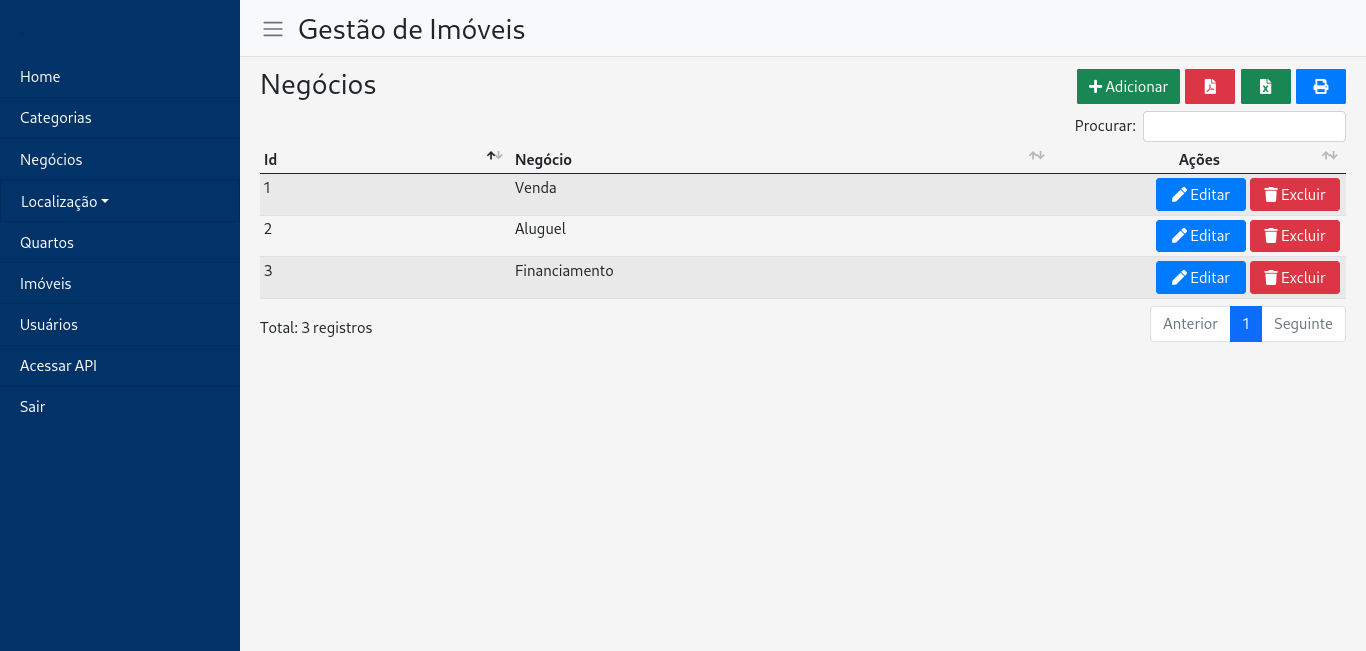
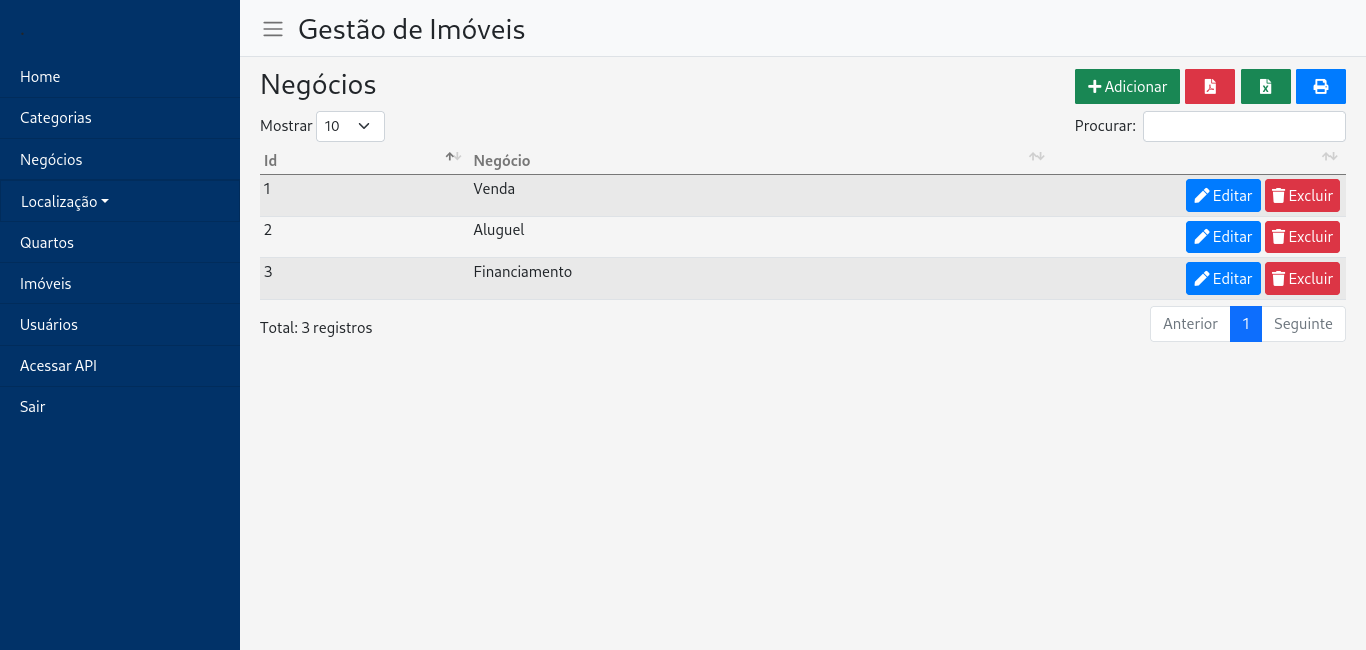
Atualização de arquivos

diff --git a/src/main/resources/static/js/imovel.js b/src/main/resources/static/js/imovel.js
@@ -1,8 +1,8 @@
 $(document).ready(function () {
     var dataTable = $('#data-table').DataTable({
-        responsive:true,
-        ordering:false,
-        dom: 'Bfrtip',
+        responsive: true,
+        ordering: false,
+        dom: 'Blfrtip',
         buttons:[
             {
                 text:      '<i class="fas fa-plus"></i> Adicionar',
@@ -54,8 +54,8 @@ $(document).ready(function () {
         },
         initComplete: function() {
             var api = this.api();
-            $("#data-table thead .filters th").each( function ( colIdx ) {
-                var cell = $('.filters th').eq($(api.column(colIdx).header()).index());
+            $("#data-table thead .filters .filter").each( function ( colIdx ) {
+                var cell = $('.filters .filter').eq($(api.column(colIdx).header()).index());
                 var title = $(cell).text();
                 var select = null;
                 if(title == 'Status' || title == 'Negócio' || title == 'Categoria' || title == 'Quarto') {
@@ -77,7 +77,7 @@ $(document).ready(function () {
                     } );
                 } else {
                     $(cell).html( '<input type="text" placeholder="'+title+'" />' );
-                    $('input', $('.filters th').eq($(api.column(colIdx).header()).index()) )
+                    $('input', $('.filters .filter').eq($(api.column(colIdx).header()).index()) )
                     .off('keyup change')
                     .on('keyup change', function (e) {
                         e.stopPropagation();
@@ -118,12 +118,12 @@ $(document).ready(function () {
             },
             {
                 "data": null, "render": function ( data ) {
-                    return '<a class="btn btn-success" href="/imovel/visualizar/'+data.id+'">'+
+                    return '<div class="actions"><a class="btn btn-success" href="/imovel/visualizar/'+data.id+'">'+
                     '<i class="fas fa-eye"></i> Ver</a>'+
                     '<a class="btn btn-primary" href="/imovel/editar/'+data.id+'">'+
                     '<i class="fas fa-pen"></i> Editar</a><a class="btn btn-danger" '+
                     'onclick="return confirm(\'Tem certeza que deseja excluir esse registro?\');" '+
-                    'href="/imovel/excluir/'+data.id+'"><i class="fas fa-trash"></i> Excluir</a>'
+                    'href="/imovel/excluir/'+data.id+'"><i class="fas fa-trash"></i> Excluir</a></div>'
                 }
             }
         ],

diff --git a/src/main/resources/static/css/style.css b/src/main/resources/static/css/style.css
@@ -140,8 +140,8 @@ body {
 
 #data-table {
     width: 100% !important;
-    margin-top: 5px !important;
-    margin-bottom: 2px !important;
+    margin-top: 6px !important;
+    margin-bottom: 4px !important;
 }
 
 #data-table .btn-primary, #data-table .btn-success, #data-table .btn-danger {
@@ -155,13 +155,13 @@ body {
     padding: 2px 4px !important;
 }
 
-#data-table th:last-child {
-    min-width: 27% !important;
-    text-align: center !important;
+#data-table thead th {
+    color: #777 !important;
 }
 
-#data-table tr td:last-child {
-    text-align: right !important;
+#data-table thead th:last-child {
+    min-width: 27% !important;
+    text-align: center !important;
 }
 
 #data-table thead .col-1 input {
@@ -172,14 +172,16 @@ body {
     max-width: 150px !important;
 }
 
+#data-table tr td .actions {
+    text-align: right !important;
+}
+
 #data-table_info {
     float: left !important;
 }
 
 #data-table_length {
-    display: none !important;
     float: left !important;
-    margin-top: 10px !important;
 }
 
 #data-table_paginate {
@@ -244,6 +246,7 @@ body {
     margin-top: 2px !important;
     margin-bottom: 2px !important;
     font-size: 15px !important;
+    padding: .375rem .80rem !important;
 }
 
 .alert-danger, .alert-success {

diff --git a/src/main/resources/static/js/categoria.js b/src/main/resources/static/js/categoria.js
@@ -1,7 +1,7 @@
 $(document).ready(function () {
     dataTable = $('#data-table').DataTable({
-        responsive:true,
-        dom: 'Bfrtip',
+        responsive: true,
+        dom: 'Blfrtip',
         buttons:[
             {
                 text:      '<i class="fas fa-plus"></i> Adicionar',
@@ -56,10 +56,10 @@ $(document).ready(function () {
             { "data": "nome" },
             {
                 "data": null, "render": function (data) {
-                    return '<a class="btn btn-primary" href="/classificador/categoria/editar/'+data.id+'">'+
+                    return '<div class="actions"><a class="btn btn-primary" href="/classificador/categoria/editar/'+data.id+'">'+
                     '<i class="fas fa-pen"></i> Editar</a><a class="btn btn-danger" '+
                     'onclick="return confirm(\'Tem certeza que deseja excluir esse registro?\');" '+
-                    'href="/classificador/categoria/excluir/'+data.id+'"><i class="fas fa-trash"></i> Excluir</a>'
+                    'href="/classificador/categoria/excluir/'+data.id+'"><i class="fas fa-trash"></i> Excluir</a></div>'
                 }
             }
         ],

diff --git a/src/main/resources/static/js/municipio.js b/src/main/resources/static/js/municipio.js
@@ -1,7 +1,7 @@
 $(document).ready(function () {
     dataTable = $('#data-table').DataTable({
-        responsive:true,
-        dom: 'Bfrtip',
+        responsive: true,
+        dom: 'Blfrtip',
         buttons:[
             {
                 text:      '<i class="fas fa-plus"></i> Adicionar',
@@ -57,10 +57,10 @@ $(document).ready(function () {
             { "data": "estado.nome" },
             {
                 "data": null, "render": function (data) {
-                    return '<a class="btn btn-primary" href="/localidade/municipio/editar/'+data.id+'">'+
+                    return '<div class="actions"><a class="btn btn-primary" href="/localidade/municipio/editar/'+data.id+'">'+
                     '<i class="fas fa-pen"></i> Editar</a><a class="btn btn-danger" '+
                     'onclick="return confirm(\'Tem certeza que deseja excluir esse registro?\');" '+
-                    'href="/localidade/municipio/excluir/'+data.id+'"><i class="fas fa-trash"></i> Excluir</a>'
+                    'href="/localidade/municipio/excluir/'+data.id+'"><i class="fas fa-trash"></i> Excluir</a></div>'
                 }
             }
         ],

diff --git a/src/main/resources/static/js/bairro.js b/src/main/resources/static/js/bairro.js
@@ -1,7 +1,7 @@
 $(document).ready(function () {
     dataTable = $('#data-table').DataTable({
-        responsive:true,
-        dom: 'Bfrtip',
+        responsive: true,
+        dom: 'Blfrtip',
         buttons:[
             {
                 text:      '<i class="fas fa-plus"></i> Adicionar',
@@ -58,10 +58,10 @@ $(document).ready(function () {
             { "data": "municipio.estado.nome" },
             {
                 "data": null, "render": function (data) {
-                    return '<a class="btn btn-primary" href="/localidade/bairro/editar/'+data.id+'">'+
+                    return '<div class="actions"><a class="btn btn-primary" href="/localidade/bairro/editar/'+data.id+'">'+
                     '<i class="fas fa-pen"></i> Editar</a><a class="btn btn-danger" '+
                     'onclick="return confirm(\'Tem certeza que deseja excluir esse registro?\');" '+
-                    'href="/localidade/bairro/excluir/'+data.id+'"><i class="fas fa-trash"></i> Excluir</a>'
+                    'href="/localidade/bairro/excluir/'+data.id+'"><i class="fas fa-trash"></i> Excluir</a></div>'
                 }
             }
         ],

diff --git a/src/main/resources/static/js/quarto.js b/src/main/resources/static/js/quarto.js
@@ -1,7 +1,7 @@
 $(document).ready(function () {
     dataTable = $('#data-table').DataTable({
-        responsive:true,
-        dom: 'Bfrtip',
+        responsive: true,
+        dom: 'Blfrtip',
         buttons:[
             {
                 text:      '<i class="fas fa-plus"></i> Adicionar',
@@ -57,10 +57,10 @@ $(document).ready(function () {
             { "data": "descricao" },
             {
                 "data": null, "render": function (data) {
-                    return '<a class="btn btn-primary" href="/classificador/quarto/editar/'+data.id+'">'+
+                    return '<div class="actions"><a class="btn btn-primary" href="/classificador/quarto/editar/'+data.id+'">'+
                     '<i class="fas fa-pen"></i> Editar</a><a class="btn btn-danger" '+
                     'onclick="return confirm(\'Tem certeza que deseja excluir esse registro?\');" '+
-                    'href="/classificador/quarto/excluir/'+data.id+'"><i class="fas fa-trash"></i> Excluir</a>'
+                    'href="/classificador/quarto/excluir/'+data.id+'"><i class="fas fa-trash"></i> Excluir</a></div>'
                 }
             }
         ],

diff --git a/src/main/resources/static/js/negocio.js b/src/main/resources/static/js/negocio.js
@@ -1,7 +1,7 @@
 $(document).ready(function () {
     dataTable = $('#data-table').DataTable({
-        responsive:true,
-        dom: 'Bfrtip',
+        responsive: true,
+        dom: 'Blfrtip',
         buttons:[
             {
                 text:      '<i class="fas fa-plus"></i> Adicionar',
@@ -56,10 +56,10 @@ $(document).ready(function () {
             { "data": "nome" },
             {
                 "data": null, "render": function (data) {
-                    return '<a class="btn btn-primary" href="/classificador/negocio/editar/'+data.id+'">'+
+                    return '<div class="actions"><a class="btn btn-primary" href="/classificador/negocio/editar/'+data.id+'">'+
                     '<i class="fas fa-pen"></i> Editar</a><a class="btn btn-danger" '+
                     'onclick="return confirm(\'Tem certeza que deseja excluir esse registro?\');" '+
-                    'href="/classificador/negocio/excluir/'+data.id+'"><i class="fas fa-trash"></i> Excluir</a>'
+                    'href="/classificador/negocio/excluir/'+data.id+'"><i class="fas fa-trash"></i> Excluir</a></div>'
                 }
             }
         ],

diff --git a/src/main/resources/static/js/estado.js b/src/main/resources/static/js/estado.js
@@ -1,7 +1,7 @@
 $(document).ready(function () {
     dataTable = $('#data-table').DataTable({
-        responsive:true,
-        dom: 'Bfrtip',
+        responsive: true,
+        dom: 'Blfrtip',
         buttons:[
             {
                 text:      '<i class="fas fa-plus"></i> Adicionar',
@@ -57,10 +57,10 @@ $(document).ready(function () {
             { "data": "uf" },
             {
                 "data": null, "render": function (data) {
-                    return '<a class="btn btn-primary" href="/localidade/estado/editar/'+data.id+'">'+
+                    return '<div class="actions"><a class="btn btn-primary" href="/localidade/estado/editar/'+data.id+'">'+
                     '<i class="fas fa-pen"></i> Editar</a><a class="btn btn-danger" '+
                     'onclick="return confirm(\'Tem certeza que deseja excluir esse registro?\');" '+
-                    'href="/localidade/estado/excluir/'+data.id+'"><i class="fas fa-trash"></i> Excluir</a>'
+                    'href="/localidade/estado/excluir/'+data.id+'"><i class="fas fa-trash"></i> Excluir</a></div>'
                 }
             }
         ],

diff --git a/src/main/resources/static/js/usuario.js b/src/main/resources/static/js/usuario.js
@@ -1,7 +1,7 @@
 $(document).ready(function () {
     dataTable = $('#data-table').DataTable({
-        responsive:true,
-        dom: 'Bfrtip',
+        responsive: true,
+        dom: 'Blfrtip',
         buttons:[
             {
                 text:      '<i class="fas fa-plus"></i> Adicionar',
@@ -75,10 +75,10 @@ $(document).ready(function () {
             },
             {
                 "data": null, "render": function (data) {
-                    return '<a class="btn btn-primary" href="/usuario/editar/'+data.id+'">'+
+                    return '<div class="actions"><a class="btn btn-primary" href="/usuario/editar/'+data.id+'">'+
                     '<i class="fas fa-pen"></i> Editar</a><a class="btn btn-danger" '+
                     'onclick="return confirm(\'Tem certeza que deseja excluir esse registro?\');" '+
-                    'href="/usuario/excluir/'+data.id+'"><i class="fas fa-trash"></i> Excluir</a>'
+                    'href="/usuario/excluir/'+data.id+'"><i class="fas fa-trash"></i> Excluir</a></div>'
                 }
             }
         ],

diff --git a/src/main/resources/templates/imovel/imoveis.html b/src/main/resources/templates/imovel/imoveis.html
@@ -16,12 +16,12 @@
     <table id="data-table" class="table table-striped">
         <thead>
         <tr class="filters">
-            <th class="col-2">Negócio</th>
-            <th class="col-2">Categoria</th>
-            <th class="col-1">Quarto</th>
-            <th class="col-2">Cidade/UF</th>
-            <th class="col-1">Preço</th>
-            <th class="col-1">Status</th>
+            <th class="col-2 filter">Negócio</th>
+            <th class="col-2 filter">Categoria</th>
+            <th class="col-1 filter">Quarto</th>
+            <th class="col-2 filter">Cidade/UF</th>
+            <th class="col-1 filter">Preço</th>
+            <th class="col-1 filter">Status</th>
             <th class="col-3"></th>
         </tr>
         </thead>

diff --git a/src/main/resources/templates/usuario/usuarios.html b/src/main/resources/templates/usuario/usuarios.html
@@ -18,10 +18,10 @@
         <tr>
             <th class="col-1">Id</th>
             <th class="col-3">Nome</th>
-            <th class="col-3">Usuário</th>
-            <th class="col-3">Função</th>
-            <th class="col-3">Ativo</th>
-            <th class="col-2">Ações</th>
+            <th class="col-2">Usuário</th>
+            <th class="col-2">Função</th>
+            <th class="col-2">Status</th>
+            <th class="col-2"></th>
         </tr>
         </thead>
         <tbody>

diff --git a/src/main/resources/templates/estado/estados.html b/src/main/resources/templates/estado/estados.html
@@ -16,10 +16,10 @@
     <table id="data-table" class="table table-striped">
         <thead>
         <tr>
-            <th class="col-1">Id</th>
-            <th class="col-3">Estado</th>
-            <th class="col-1">UF</th>
-            <th class="col-2">Ações</th>
+            <th class="col-2">Id</th>
+            <th class="col-4">Estado</th>
+            <th class="col-3">UF</th>
+            <th class="col-3"></th>
         </tr>
         </thead>
         <tbody>
